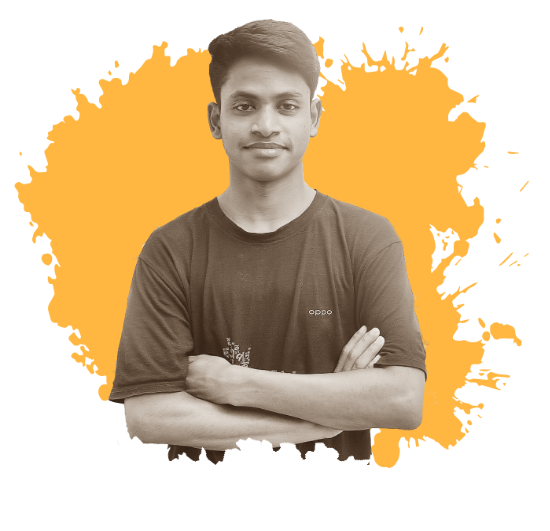
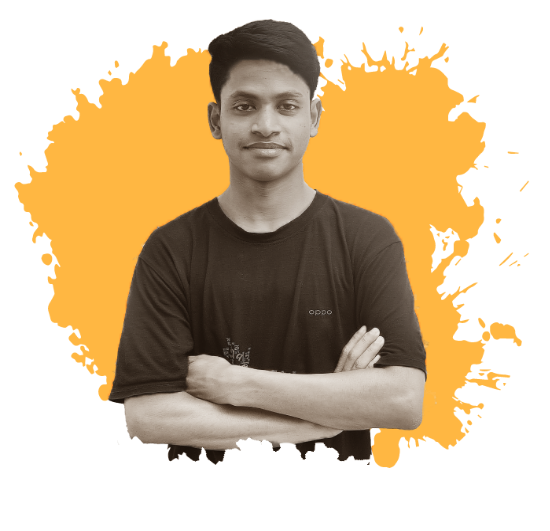
h

diff --git a/email.html b/email.html
@@ -13,7 +13,7 @@
             <tr>
                 <td style="width: 40%;">
                     <center>
-                        <img src="images/Group 12.png" alt="" style="width: 150px; height: fit-content; max-width: 100%;">
+                        <img src="images/testprofile.png" alt="" style="width: 150px; height: fit-content; max-width: 100%;">
                     </center>
                 </td>
                 <td style="border-left: 2px solid gray; padding-left: 1rem; width: 60%;">
